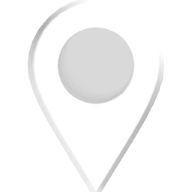
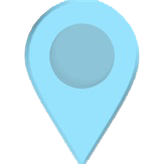
Fix Jorik's code, fix assetExtracter and code cleanup

diff --git a/Clarity/app/src/main/java/com/riftwalkers/clarity/MainActivity.java b/Clarity/app/src/main/java/com/riftwalkers/clarity/MainActivity.java
@@ -29,41 +29,6 @@ import org.json.JSONArray;
 
 
 public class MainActivity extends ARViewActivity {
-
-enum PoiType {
-    Schip,
-    Bolder,
-    Boei
-}
-
-
-class PointOfInterest {
-    int Id;
-    PoiType Type;
-    String Description;
-    LLACoordinate Coordinate;
-
-    String GetImageName ()
-    {
-        switch (this.Type){
-            case Schip: return "POIc.png";
-            case Boei: return "POIb.png";
-            case Bolder: return "ExamplePOI.png";
-            default: return "ExamplePOI.png";
-        }
-    }
-}
-
-
-    //TIJDELIJKE JSON MET DUMMY DATA, WORDT LATER UIT JSON FILES GEHAALD
-
-    // Drawer Variables
-    private String[] drawerItems;
-    private DrawerLayout drawerLayout;
-    private ActionBarDrawerToggle drawerToggle;
-    private ListView drawerList;
-
-    //private IGeometry vuurtoren,standbeeld,blaak,havenBedrijf;
     private ArrayList<PointOfInterest> pointOfInterestList;
 
     @Override
@@ -75,57 +40,11 @@ class PointOfInterest {
     public void onCreate(Bundle savedInstanceState) {
         super.onCreate(savedInstanceState);
         setContentView(R.layout.activity_inapp);
-
-        new AssetsExtracter().execute(0);
-
-        createDrawMenu();
     }
 
     public void Search(View view) {
         SearchDialog searchDialog = new SearchDialog(this);
         searchDialog.show();
-    }
-
-    public void createDrawMenu() {
-        // TODO : Fix drawerLayout menu
-
-        drawerItems = getResources().getStringArray(R.array.drawer_array);
-        drawerLayout = (DrawerLayout) findViewById(R.id.drawer_layout);
-        drawerList = (ListView) findViewById(R.id.legend);
-
-        // Adapter
-        ArrayAdapter<String> adapter = new ArrayAdapter<>(
-                this,
-                R.layout.listview_items,
-                drawerItems
-        );
-        drawerList.setAdapter(adapter);
-
-        // Configuration
-
-        // Drawer
-        drawerToggle = new ActionBarDrawerToggle(
-                this,                  /* host Activity */
-                drawerLayout,          /* DrawerLayout object */
-                R.drawable.drawer_icon,/* Drawer Icon */
-                R.string.drawer_open,  /* "open drawerLayout" description for accessibility */
-                R.string.drawer_close  /* "close drawerLayout" description for accessibility */
-        ) {
-            public void onDrawerClosed(View view) {
-                getActionBar().setTitle(R.string.drawer_title);
-                invalidateOptionsMenu(); // creates call to onPrepareOptionsMenu()
-            }
-
-            public void onDrawerOpened(View drawerView) {
-                getActionBar().setTitle(R.string.drawer_title);
-                invalidateOptionsMenu(); // creates call to onPrepareOptionsMenu()
-            }
-        };
-        drawerLayout.setDrawerListener(drawerToggle);
-
-        drawerList.setOnItemClickListener(new DrawerItemClickListener());
-
-
     }
 
     @Override
@@ -147,49 +66,46 @@ class PointOfInterest {
         pointOfInterestList = new ArrayList<PointOfInterest>();
 
         PointOfInterest schip1 = new PointOfInterest();
-        schip1.Id =  1;
-        schip1.Description = "schip info x meter";
-        schip1.Coordinate = new LLACoordinate(51.916801, 4.482380, 0, 0);
-        schip1.Type = PoiType.Schip;
+        schip1.setId(1);
+        schip1.setDescription("schip info x meter");
+        schip1.setCoordinate(new LLACoordinate(51.916801, 4.482380, 0, 0));
+        schip1.setType(PoiType.Schip);
         pointOfInterestList.add(schip1);
 
         PointOfInterest bolder1 = new PointOfInterest();
-        bolder1.Id =  2;
-        bolder1.Description = "bolder info x meter";
-        bolder1.Coordinate = new LLACoordinate(51.919855, 4.489412, 0, 0);
-        bolder1.Type = PoiType.Bolder;
+        bolder1.setId(2);
+        bolder1.setDescription("bolder info x meter");
+        bolder1.setCoordinate(new LLACoordinate(51.919855, 4.489412, 0, 0));
+        bolder1.setType(PoiType.Bolder);
         pointOfInterestList.add(bolder1);
 
         PointOfInterest bolder2 = new PointOfInterest();
-        bolder2.Id =  3;
-        bolder2.Description = "bolder info x meter";
-        bolder2.Coordinate = new LLACoordinate(51.917648, 4.483057, 0, 0);
-        bolder2.Type = PoiType.Bolder;
+        bolder2.setId(3);
+        bolder2.setDescription("bolder info x meter");
+        bolder2.setCoordinate(new LLACoordinate(51.917648, 4.483057, 0, 0));
+        bolder2.setType(PoiType.Bolder);
         pointOfInterestList.add(bolder2);
 
         PointOfInterest boei1 = new PointOfInterest();
-        boei1.Id =  4;
-        boei1.Description = "boei info x meter";
-        boei1.Coordinate = new LLACoordinate(51.904794,4.484548, 0, 0);
-        boei1.Type = PoiType.Boei;
+        boei1.setId(4);
+        boei1.setDescription("boei info x meter");
+        boei1.setCoordinate(new LLACoordinate(51.904794,4.484548, 0, 0));
+        boei1.setType(PoiType.Boei);
         pointOfInterestList.add(boei1);
-
-        //AssetsManager.extractAllAssets(this, true);
 
         //draw each poi in the arrayList
         for(int i=0;i<pointOfInterestList.size();i++) {
-
             //get type of POI and image
             File POIbackground = AssetsManager.getAssetPathAsFile(getApplicationContext(), pointOfInterestList.get(i).GetImageName());
-            //File POIbackground = AssetsManager.getAssetPathAsFile(getApplicationContext(), "ExamplePOI.png");
-            String name = Integer.toString(pointOfInterestList.get(i).Id);
-            IGeometry geometry = null;
+            String name = Integer.toString(pointOfInterestList.get(i).getId());
+            IGeometry geometry = pointOfInterestList.get(i).getGeometry();
+
             if(POIbackground != null) {
-                createGeometry(geometry, pointOfInterestList.get(i).Coordinate, POIbackground, 100);
+                createGeometry(geometry, pointOfInterestList.get(i).getCoordinate(), POIbackground, 100);
+            } else {
+                MetaioDebug.log(Log.ERROR, "Error loading geometry: " + POIbackground);
             }
         }
-
-
     }
 
     /**
@@ -213,59 +129,5 @@ class PointOfInterest {
     @Override
     protected void onGeometryTouched(final IGeometry geometry)
     {
-    }
-
-    private class AssetsExtracter extends AsyncTask<Integer, Integer, Boolean>
-    {
-        @Override
-        protected Boolean doInBackground(Integer... params)
-        {
-            try
-            {
-                AssetsManager.extractAllAssets(getApplicationContext(), false);
-            }
-            catch (IOException e)
-            {
-                MetaioDebug.printStackTrace(Log.ERROR, e);
-                return false;
-            }
-
-            return true;
-        }
-    }
-
-    @Override
-    public boolean onCreateOptionsMenu(Menu menu) {
-        MenuInflater inflater = getMenuInflater();
-        inflater.inflate(R.menu.menu_main, menu);
-        return super.onCreateOptionsMenu(menu);
-    }
-
-    @Override
-    public boolean onOptionsItemSelected(MenuItem item) {
-        // The action bar home/up action should open or close the drawerLayout.
-        // ActionBarDrawerToggle will take care of this.
-        if (drawerToggle.onOptionsItemSelected(item)) {
-            return true;
-        }
-        // Handle action buttons
-        switch(item.getItemId()) {
-            case R.array.drawer_array:
-                return true;
-            default:
-                return super.onOptionsItemSelected(item);
-        }
-    }
-
-    private class DrawerItemClickListener implements android.widget.AdapterView.OnItemClickListener {
-        @Override
-        public void onItemClick(AdapterView<?> parent, View view, int position, long id) {
-            selectItem(position);
-        }
-    }
-
-    private void selectItem(int position) {
-        // TODO : update visable icons
-
     }
 }

diff --git a/Clarity/app/src/main/java/com/riftwalkers/clarity/PointOfInterest.java b/Clarity/app/src/main/java/com/riftwalkers/clarity/PointOfInterest.java
@@ -1,0 +1,63 @@
+package com.riftwalkers.clarity;
+
+import com.metaio.sdk.jni.IGeometry;
+import com.metaio.sdk.jni.LLACoordinate;
+
+public class PointOfInterest {
+    private int Id;
+    private PoiType Type;
+    private String Description;
+    private LLACoordinate Coordinate;
+    private IGeometry geometry;
+
+    public void setId(int id) {
+        Id = id;
+    }
+
+    public void setType(PoiType type) {
+        Type = type;
+    }
+
+    public void setDescription(String description) {
+        Description = description;
+    }
+
+    public void setCoordinate(LLACoordinate coordinate) {
+        Coordinate = coordinate;
+    }
+
+    public void setGeometry(IGeometry geometry) {
+        this.geometry = geometry;
+    }
+
+    public int getId() {
+
+        return Id;
+    }
+
+    public PoiType getType() {
+        return Type;
+    }
+
+    public String getDescription() {
+        return Description;
+    }
+
+    public LLACoordinate getCoordinate() {
+        return Coordinate;
+    }
+
+    public IGeometry getGeometry() {
+        return geometry;
+    }
+
+    public String GetImageName()
+    {
+        switch (this.Type){
+            case Schip: return "POIa.png";
+            case Boei: return "POIb.png";
+            case Bolder: return "POIc.png";
+            default: return "ExamplePOI.png";
+        }
+    }
+}

diff --git a/Clarity/app/src/main/java/com/riftwalkers/clarity/AssetsExtracter.java b/Clarity/app/src/main/java/com/riftwalkers/clarity/AssetsExtracter.java
@@ -1,0 +1,35 @@
+package com.riftwalkers.clarity;
+
+import android.content.Context;
+import android.os.AsyncTask;
+import android.util.Log;
+
+import com.metaio.sdk.MetaioDebug;
+import com.metaio.tools.io.AssetsManager;
+
+import java.io.IOException;
+
+public class AssetsExtracter extends AsyncTask<Integer, Integer, Boolean>
+{
+    private Context context;
+
+    public void setContext(Context context) {
+        this.context = context;
+    }
+
+    @Override
+    protected Boolean doInBackground(Integer... params)
+    {
+        try
+        {
+            AssetsManager.extractAllAssets(context, true);
+        }
+        catch (IOException e)
+        {
+            MetaioDebug.printStackTrace(Log.ERROR, e);
+            return false;
+        }
+
+        return true;
+    }
+}

diff --git a/Clarity/app/src/main/java/com/riftwalkers/clarity/RoleSelector.java b/Clarity/app/src/main/java/com/riftwalkers/clarity/RoleSelector.java
@@ -2,6 +2,7 @@ package com.riftwalkers.clarity;
 
 import android.app.Activity;
 import android.content.Intent;
+import android.os.AsyncTask;
 import android.os.Bundle;
 import android.view.View;
 import android.widget.Button;
@@ -17,6 +18,10 @@ public class RoleSelector extends Activity {
     public void onCreate(Bundle savedInstanceState) {
         super.onCreate(savedInstanceState);
         setContentView(R.layout.activity_roleselector);
+
+        final AssetsExtracter assetsExtracter = new AssetsExtracter();
+        assetsExtracter.setContext(this);
+        assetsExtracter.execute(0);
 
         pilot = (Button) findViewById(R.id.loods);
         rower = (Button) findViewById(R.id.roei);

diff --git a/Clarity/app/src/main/java/com/riftwalkers/clarity/PoiType.java b/Clarity/app/src/main/java/com/riftwalkers/clarity/PoiType.java
@@ -1,0 +1,7 @@
+package com.riftwalkers.clarity;
+
+public enum PoiType {
+    Schip,
+    Bolder,
+    Boei
+}
